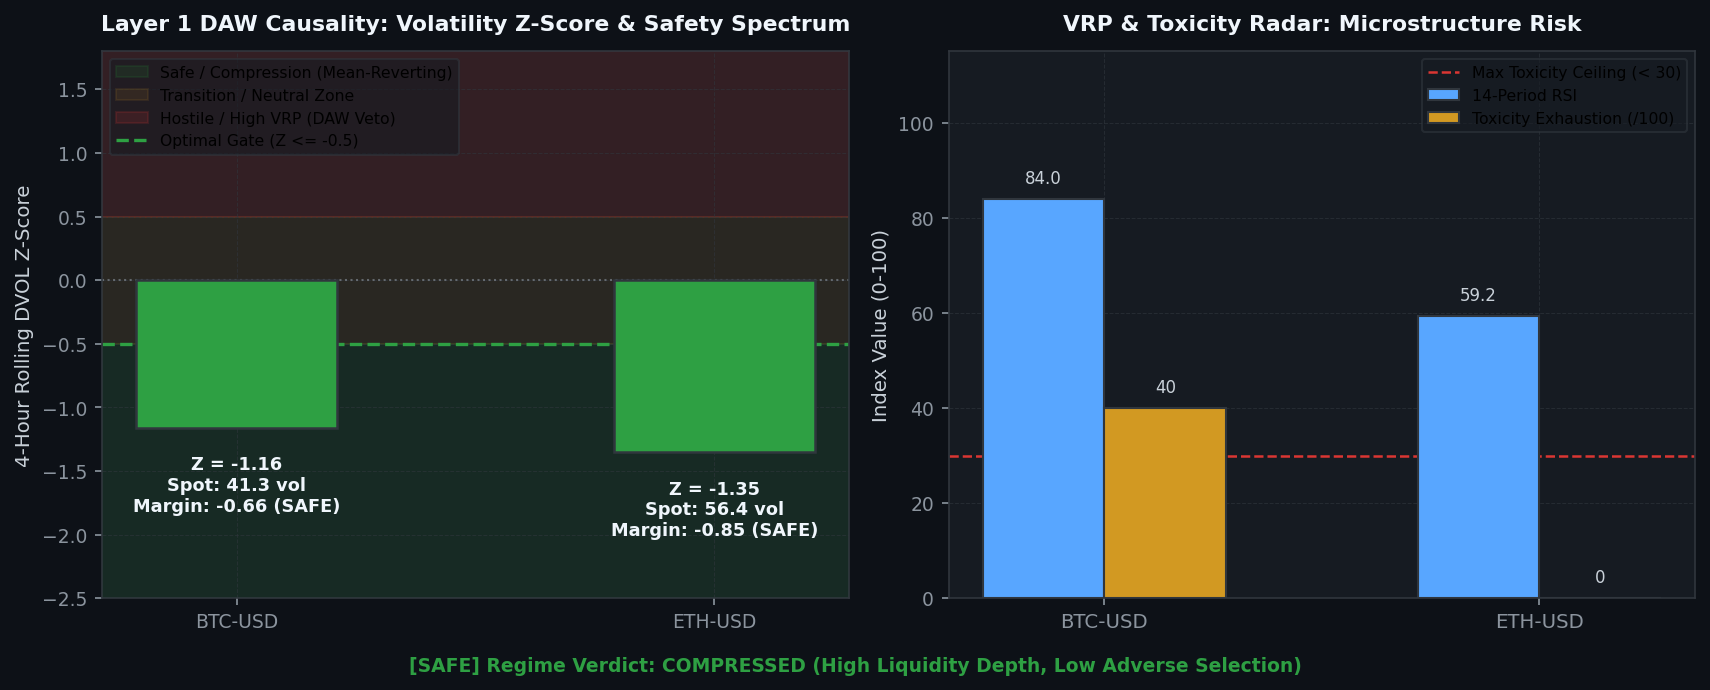
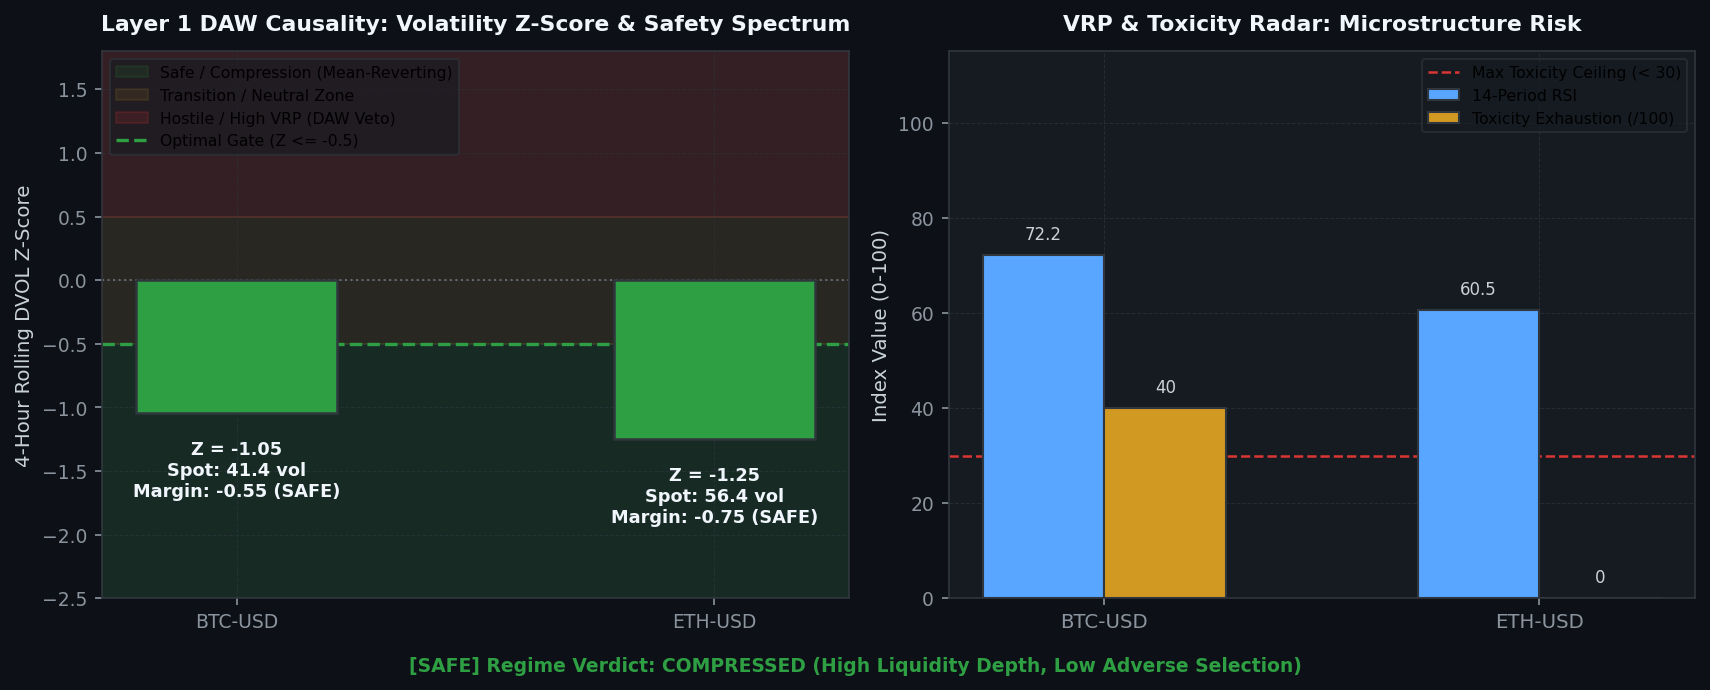
[coinbase] Hourly Status & Visual Intelligence Update: 2026-08-26 06:00:23

diff --git a/coinbase/data/hourly_status_report.md b/coinbase/data/hourly_status_report.md
@@ -3,7 +3,7 @@ layout: default
 ---
 
 # 🛡 Unified Trading System Hourly Status & Visual Intelligence
-> **Report Generated**: `2026-08-26 05:44:38 AM PDT (2026-08-26 12:44:38 UTC)`  
+> **Report Generated**: `2026-08-26 06:00:06 AM PDT (2026-08-26 13:00:06 UTC)`  
 > **System Health**: **🟡 DEGRADED / RESTRICTED** | **Win Rate**: `0.0%` | **Completed Trades**: `0`
 
 
@@ -15,13 +15,13 @@ Real-time Deribit implied volatility (DVOL) proxy tracking against mathematicall
 
 | Symbol | Proxy Oracle | Live Z-Score | Optimal Limit (YSP) | Safety Margin | Live VRP | Optimal VRP (YSP) | DAW Safety Verdict |
 | :--- | :--- | :--- | :--- | :--- | :--- | :--- | :--- |
-| `AVAX-USD` | DVOL_BTC | **-1.16** | **-0.50** | **-0.66** | **+3.83** | 5.0 | 🟢 SAFE |
-| `ETH-USD` | DVOL_ETH | **-1.34** | **-0.50** | **-0.84** | **+18.95** | 5.0 | 🔴 DAW VETOED |
-| `ADA-USD` | DVOL_BTC | **-1.16** | **-0.50** | **-0.66** | **-4.80** | 5.0 | 🟢 SAFE |
-| `DOGE-USD` | DVOL_BTC | **-1.16** | **-0.50** | **-0.66** | **-4.80** | 5.0 | 🟢 SAFE |
-| `BTC-USD` | DVOL_BTC | **-1.16** | **-0.50** | **-0.66** | **-4.80** | 5.0 | 🟢 SAFE |
-| `LINK-USD` | DVOL_BTC | **-1.16** | **-0.50** | **-0.66** | **-4.80** | 5.0 | 🟢 SAFE |
-| `SOL-USD` | DVOL_BTC | **-1.16** | **-0.50** | **-0.66** | **-4.80** | 5.0 | 🟢 SAFE |
+| `AVAX-USD` | DVOL_BTC | **-1.05** | **-0.50** | **-0.55** | **+3.83** | 5.0 | 🟢 SAFE |
+| `ETH-USD` | DVOL_ETH | **-1.25** | **-0.50** | **-0.75** | **+19.02** | 5.0 | 🔴 DAW VETOED |
+| `ADA-USD` | DVOL_BTC | **-1.05** | **-0.50** | **-0.55** | **-4.80** | 5.0 | 🟢 SAFE |
+| `DOGE-USD` | DVOL_BTC | **-1.05** | **-0.50** | **-0.55** | **-4.80** | 5.0 | 🟢 SAFE |
+| `BTC-USD` | DVOL_BTC | **-1.05** | **-0.50** | **-0.55** | **-4.80** | 5.0 | 🟢 SAFE |
+| `LINK-USD` | DVOL_BTC | **-1.05** | **-0.50** | **-0.55** | **-4.80** | 5.0 | 🟢 SAFE |
+| `SOL-USD` | DVOL_BTC | **-1.05** | **-0.50** | **-0.55** | **-4.80** | 5.0 | 🟢 SAFE |
 
 
 
@@ -37,12 +37,12 @@ We hereby certify that the mission-critical algorithmic data assets uploaded by 
 
 | Status | Data Asset | Freshness / State | Details / Timestamp |
 | :---: | :--- | :--- | :--- |
-| ✅ | **Go-List JSON** | Fresh (20.71h old) | 08-25 09:02 |
-| ✅ | **TimesFM Forecasts** | Fresh (0.89h old) | 08-26 04:51 |
-| ❌ | **Holding Times config** | STALE! (116.7h old) | Limit 58.7h |
-| ✅ | **BTC DVOL Cache** | Fresh (0.00h old) | 08-26 05:44 |
-| ✅ | **ETH DVOL Cache** | Fresh (0.00h old) | 08-26 05:44 |
-| ❌ | **Live Trading Telemetry** | STALE! (8.2h old) | Limit 0.1h |
+| ✅ | **Go-List JSON** | Fresh (20.97h old) | 08-25 09:02 |
+| ✅ | **TimesFM Forecasts** | Fresh (1.15h old) | 08-26 04:51 |
+| ❌ | **Holding Times config** | STALE! (117.0h old) | Limit 59.0h |
+| ✅ | **BTC DVOL Cache** | Fresh (0.00h old) | 08-26 06:00 |
+| ✅ | **ETH DVOL Cache** | Fresh (0.00h old) | 08-26 06:00 |
+| ❌ | **Live Trading Telemetry** | STALE! (8.5h old) | Limit 0.1h |
 
 <br>
 
@@ -55,7 +55,7 @@ Layer-by-layer tick evaluation waterfall and asset-specific performance tracking
 
 | Funnel Filter Layer | Total Rejections | % of Rejections |
 | :--- | :--- | :--- |
-| Tier 1: Macro Volatility Tensor Gate (Omega_macro) | `8,085` | **100.0%** |
+| Tier 1: Macro Volatility Tensor Gate (Omega_macro) | `8,131` | **100.0%** |
 | Tier 2: Unified Transport & Directional Engine | `0` | **0.0%** |
 | Tier 3: Continuous Hawkes-SFGK Pricer (HAS-Pricer) | `0` | **0.0%** |
 | System: Asset Cooldown Active | `0` | **0.0%** |
@@ -81,18 +81,18 @@ Live balance sheet and open maker liquidity positions from Coinbase CDP.
 | Product | Side | Limit Price | Order ID |
 | :--- | :--- | :--- | :--- |
 | `ACH-USD` | SELL | 0.005507 | `a0d2e243-42b4-4df5-bd23-118f45998df8` |
-| `ETH-USD` | SELL | 2503.11 | `b8603d38-2b4a-481a-803a-19ecf1beb593` |
-| `SOL-USD` | SELL | 100.69 | `8dcd9986-8156-403f-81ee-b1dc96d2b3c7` |
-| `LINK-USD` | SELL | 11.886 | `e550166a-4422-4a46-9c78-7db264061242` |
-| `ADA-USD` | SELL | 0.22031 | `d968b8ef-1180-4f05-bc11-01087aa5d99a` |
 | `ADA-USD` | SELL | 0.22853 | `2beee26b-f88c-4929-8625-ec618ae9e32d` |
+| `LINK-USD` | SELL | 11.886 | `e550166a-4422-4a46-9c78-7db264061242` |
 | `AVAX-USD` | SELL | 7.708 | `7c4cd0f2-8347-4458-a3a5-8619324273a2` |
 | `ADA-USD` | SELL | 0.22818 | `7af97780-5e33-47e5-9caf-12bec2c8a7d5` |
 | `ADA-USD` | SELL | 0.22503 | `eb72afdd-a3d7-40b8-9598-30b5ca2b74ef` |
 | `DOGE-USD` | SELL | 0.09237 | `3160f212-8ff6-4b19-a291-73c17cdf2a97` |
 | `AVAX-USD` | SELL | 7.625 | `c14c3c5a-f35f-4043-a616-ea4c20cfa9f2` |
+| `ETH-USD` | SELL | 2503.11 | `b8603d38-2b4a-481a-803a-19ecf1beb593` |
+| `SOL-USD` | SELL | 100.69 | `8dcd9986-8156-403f-81ee-b1dc96d2b3c7` |
 | `BTC-USD` | SELL | 79882.66 | `560ee9a9-d0c6-4242-b2d2-c0d7ddc7393f` |
 | `DOGE-USD` | SELL | 0.09132 | `2f2ed9b7-454b-4377-9672-5f4c78c84b1e` |
+| `ADA-USD` | SELL | 0.22031 | `d968b8ef-1180-4f05-bc11-01087aa5d99a` |
 | `AVAX-USD` | SELL | 7.558 | `fc9234ee-6ef0-4ba3-a44b-d86922f91144` |
 
 
@@ -101,14 +101,14 @@ Live balance sheet and open maker liquidity positions from Coinbase CDP.
 ## 4. 🤖 Foundation Model MLOps & Pipeline Orchestration
 Weekly Algorithmic Mega Cap selection, Zero-shot multi-step forward return forecasts, and VSTEF parameter grid search status.
 
-- **TimesFM Forecast DB**: 🟢 Updated 0.9h ago (2026-08-26 04:51 AM PDT)
+- **TimesFM Forecast DB**: 🟢 Updated 1.2h ago (2026-08-26 04:51 AM PDT)
 - **Last Weekly VSTEF Optimization**: `2026-08-05 09:22:38 AM PDT`
-- **Next Scheduled VSTEF Run**: `2026-08-30 07:00:00 PM PDT (Monday 02:00 UTC)` (Countdown: **109.3h (4d 13h 15m)**)
+- **Next Scheduled VSTEF Run**: `2026-08-30 07:00:00 PM PDT (Monday 02:00 UTC)` (Countdown: **109.0h (4d 12h 59m)**)
 - **Promoted Parameter Gates**: $Z_{DVOL} \le -0.5$ | Holding Horizon $= 12\text{h}$
 
 ### Algorithmic Mega Cap Selection
 - **Last Run (Confirmation)**: `2026-08-25 09:02:14 AM PDT`
-- **Next Scheduled Run**: `2026-08-30 06:00:00 PM PDT (Monday 01:00 UTC)` (Countdown: **108.3h (4d 12h 15m)**)
+- **Next Scheduled Run**: `2026-08-30 06:00:00 PM PDT (Monday 01:00 UTC)` (Countdown: **108.0h (4d 11h 59m)**)
 - **Selected Mega Cap Universe**: `BTC, BCH, AVAX, ETH, ALGO, ADA, LTC, DOGE, AAVE, LINK, DOT, HBAR`
 
 
@@ -122,8 +122,8 @@ Visualizing the impact of the VSTEF (Volatility-Synchronized Stop-Tightening Exe
 ## 5. 🖥 Multi-Node Infrastructure & Watchdog Matrix
 ```text
 ================================================================================
-   🛡  SFGK FUNNEL GUARDIAN WATCHDOG (HFT ONLY) |  12:44:37 PM
-   CPU:   3.5%  |  MEM:   8.2% (14.1GB / 15.4GB Free)
+   🛡  SFGK FUNNEL GUARDIAN WATCHDOG (HFT ONLY) |  01:00:05 PM
+   CPU:   9.6%  |  MEM:   8.2% (14.1GB / 15.4GB Free)
 ================================================================================
 SERVICE              | PID      | STATUS          | RESTARTS | INFO
 --------------------------------------------------------------------------------
@@ -131,7 +131,7 @@ L3 Consumer          | 321180   | RUNNING         | -        | Continuous Websoc
 MAO Daemon           | 321345   | RUNNING         | -        | Oracle Yield Analysis
 Stable Farmer        | 321347   | RUNNING         | -        | Volume Farmer
 Trader AVAX-USD      | 352414   | RUNNING         | 1        | Evaluating Funnel/Polling Order
-Trader ETH-USD       | 362362   | COOL-DOWN       | 159      | Next run in 4.9s
+Trader ETH-USD       | 373974   | COOL-DOWN       | 205      | Next run in 4.9s
 Trader ADA-USD       | 353443   | RUNNING         | 1        | Evaluating Funnel/Polling Order
 Trader DOGE-USD      | 321351   | RUNNING         | 0        | Evaluating Funnel/Polling Order
 Trader BTC-USD       | 321352   | RUNNING         | 0        | Evaluating Funnel/Polling Order

diff --git a/coinbase/data/visual_intelligence.md b/coinbase/data/visual_intelligence.md
@@ -4,7 +4,7 @@ title: Visual Intelligence Gallery
 ---
 
 # 📈 Visual Intelligence Gallery
-> **Generated:** `2026-08-26 05:44:55`
+> **Generated:** `2026-08-26 06:00:23`
 > **[Return to Main Status Report](./hourly_status_report.md)**
 
 This page visualizes the internal states, market profiles, and decision criteria of the active **3-Tier Fused Decision Engine** across all layers.
